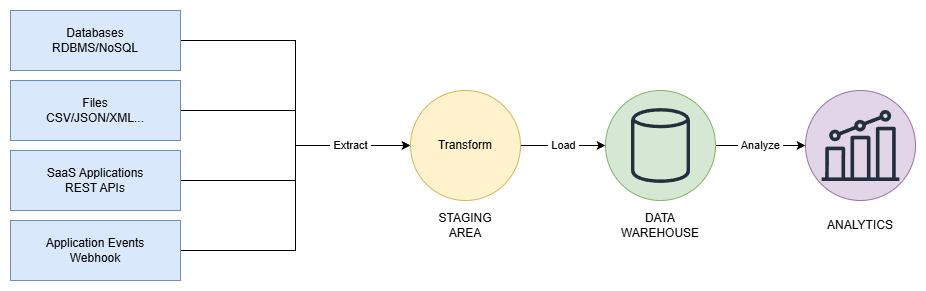
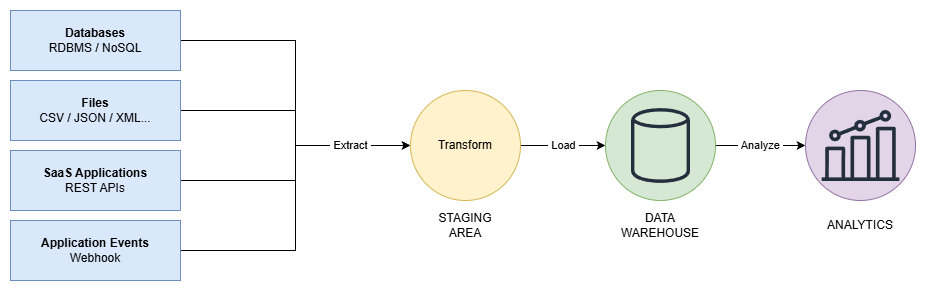
Update content.

diff --git a/5-data-integration.md b/5-data-integration.md
@@ -96,15 +96,17 @@
 - **Cons**
   - Cost
 
-# 5. ETL
+# 5. ETL vs ELT
+
+## 5.1. ETL
 
 ![ETL Process](/images/etl-process.png)
 
-# 6. ELT
+## 5.2. ELT
 
-TODO: DIAGRAM
+![ELT Process](/images/elt-process.png)
 
-# 7. ETL vs ELT
+## 5.3. Pros
 
 - **Pros of ETL**
   - **Compliance: ** ETLis better for compliance with GDPR, HIPAA, CCPA.
@@ -115,7 +117,7 @@ TODO: DIAGRAM
   - **Speed:** Data available in Data Warehouse faster since no transformation layer.
   - **Cost:** Only cloud-based platforms needed at lower cost, on-premise ETL processes require expensive hardware.
 
-# 8. Data Integration Tools
+# 6. Data Integration Tools
 
 - **On-premise tools**
   - Oracle Data Service Integrator.
@@ -128,7 +130,7 @@ TODO: DIAGRAM
   - Talend Open Studio.
   - Tibco Jaspersoft.
 
-# 9. Data Integration Best Practices
+# 7. Data Integration Best Practices
 
 1. Identify your business needs first
 2. Include internal business expert in the data integration team

diff --git a/README.md b/README.md
@@ -1,4 +1,4 @@
-# DataManagement overview <!-- omit in toc -->
+# Data Management overview <!-- omit in toc -->
 
 ## Contents <!-- omit in toc -->
 
@@ -9,6 +9,7 @@
 - [4. Data Management Principles](#4-data-management-principles)
   - [4.1. Summary Table](#41-summary-table)
 - [5. The DAMA-DMBOK Framework](#5-the-dama-dmbok-framework)
+  - [5.1. DMBOK pyramid by Peter Aiken](#51-dmbok-pyramid-by-peter-aiken)
 - [6. Data Ethics](#6-data-ethics)
   - [6.1. Essential Concepts](#61-essential-concepts)
     - [6.1.1. Ethical Principles for Data](#611-ethical-principles-for-data)
@@ -106,6 +107,10 @@
   ![The Dama Wheel](images/the-dama-wheel.png)
 - **DAMA Environmental Factor Hexagon**
   ![DAMA Environmental Factor Hexagon](images/dama-environmental-factor-hexagon.png)
+
+## 5.1. DMBOK pyramid by Peter Aiken
+
+![DMBOK pyramid by Peter Aiken](/images/dmbok-pyramid-peter-aiken.png)
 
 # 6. Data Ethics
 
